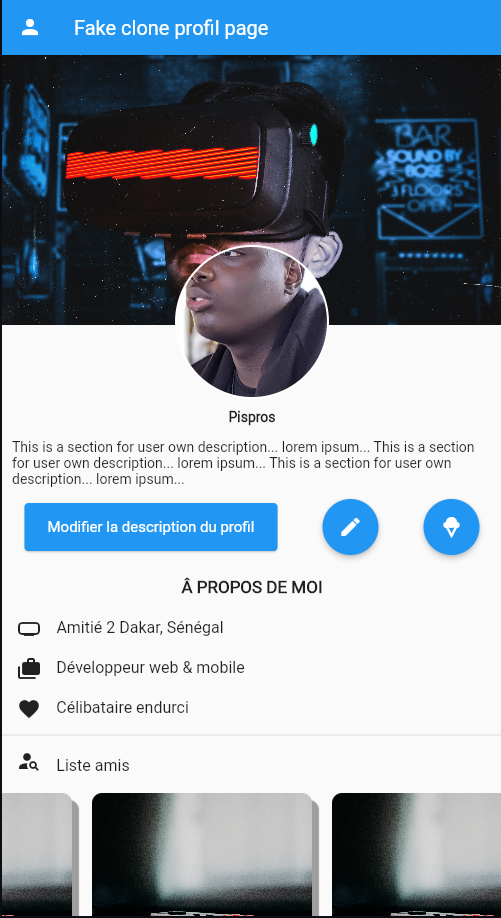
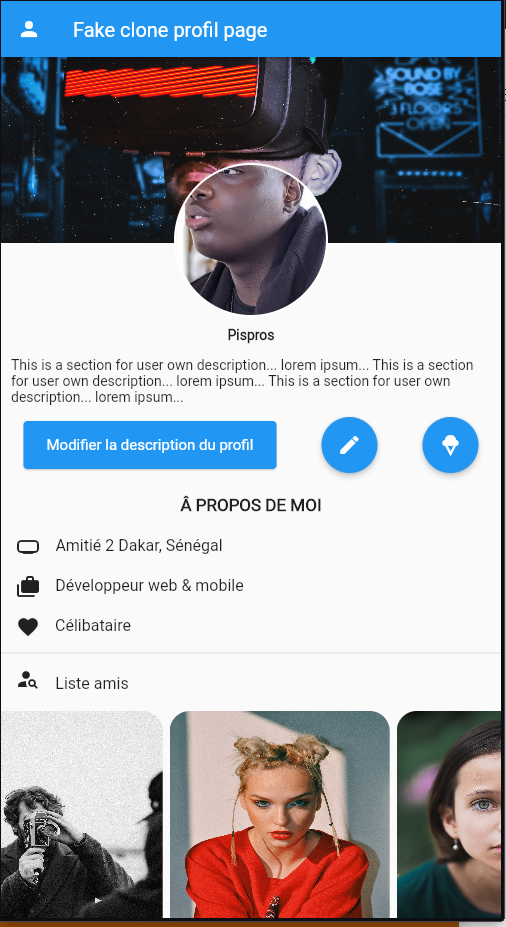
Little Optimisation

diff --git a/lib/home/home.dart b/lib/home/home.dart
@@ -259,7 +259,7 @@ class HomePage extends StatelessWidget {
                     ),
                    
                     Text(
-                      "Célibataire endurci",
+                      "Célibataire",
                       style: TextStyle(
                         fontWeight: FontWeight.w100,
                         fontSize: 16,
@@ -313,111 +313,60 @@ class HomePage extends StatelessWidget {
 
   Container friendList()
   {
+    Map<String, String> nameFilePath = {
+        "Dadja" : "https://images.pexels.com/photos/4511372/pexels-photo-4511372.jpeg",
+        "Prosper" : "https://images.pexels.com/photos/3692621/pexels-photo-3692621.jpeg?cs=srgb&dl=pexels-cottonbro-3692621.jpg&fm=jpg/",
+        "Fantomas" : "https://images.pexels.com/photos/6389819/pexels-photo-6389819.jpeg?cs=srgb&dl=pexels-djordje-cvetkovic-6389819.jpg&fm=jpg",
+        "Aribaariba" : "https://images.pexels.com/photos/4932473/pexels-photo-4932473.jpeg?cs=srgb&dl=pexels-skyler-ewing-4932473.jpg&fm=jpg",
+        "ninjamer" : "https://images.pexels.com/photos/6758064/pexels-photo-6758064.jpeg?cs=srgb&dl=pexels-jill-burrow-6758064.jpg&fm=jpg"
+    };
+
+    List<Widget> friendListContainer = [];
+
+    nameFilePath.forEach((key, value) {
+      friendListContainer.add(
+        Container(
+          margin: EdgeInsets.only(left: 7),
+         
+          child:Column(
+              children: [
+
+                Container(
+                  height: 270,
+                  width: 220,
+                  decoration: BoxDecoration(
+                      image: DecorationImage(
+                        image: NetworkImage(value),
+                        fit: BoxFit.fill
+                      ),
+                      borderRadius: BorderRadius.all(Radius.circular(20))
+                    )
+                ),
+
+                Container(
+                  margin: EdgeInsets.only(top: 7),
+                  child: Text(
+                      key,
+                      textAlign: TextAlign.center,
+                      style: TextStyle(
+                        fontSize: 17
+                      ),
+                  ),
+                )
+                
+
+              ],
+            )) ,
+        );      
+    });
+
     return Container(
           margin: EdgeInsets.only(bottom: 30, top: 5),
           child: SingleChildScrollView(
             scrollDirection: Axis.horizontal,
             child: Row(
-            children: [
-
-                Container(
-                  height: 270,
-                  width: 220,
-                  margin: EdgeInsets.only(left: 10, right: 10),
-                  decoration: BoxDecoration(
-                      boxShadow: [
-                            BoxShadow(
-                            color: Colors.grey,
-                            offset: Offset(7,7)
-                          ),
-                      ],
-                      image: DecorationImage(
-                        image: NetworkImage("https://images.pexels.com/photos/4511372/pexels-photo-4511372.jpeg"),
-                        fit: BoxFit.fill
-                      ),
-                      borderRadius: BorderRadius.all(Radius.circular(10))
-                   )
-                ),
-
-                 Container(
-                  height: 270,
-                  width: 220,
-                  margin: EdgeInsets.only(left: 10, right: 10),
-                  decoration: BoxDecoration(
-                      boxShadow: [
-                            BoxShadow(
-                            color: Colors.grey,
-                            offset: Offset(7,7)
-                          ),
-                      ],
-                      image: DecorationImage(
-                        image: NetworkImage("https://images.pexels.com/photos/4511372/pexels-photo-4511372.jpeg"),
-                        fit: BoxFit.fill
-                      ),
-                      borderRadius: BorderRadius.all(Radius.circular(10))
-                   )
-                ),
-
-                 Container(
-                  height: 270,
-                  width: 220,
-                  margin: EdgeInsets.only(left: 10, right: 10),
-                  decoration: BoxDecoration(
-                      boxShadow: [
-                            BoxShadow(
-                            color: Colors.grey,
-                            offset: Offset(7,7)
-                          ),
-                      ],
-                      image: DecorationImage(
-                        image: NetworkImage("https://images.pexels.com/photos/4511372/pexels-photo-4511372.jpeg"),
-                        fit: BoxFit.fill
-                      ),
-                      borderRadius: BorderRadius.all(Radius.circular(10))
-                   )
-                ),
-
-                 Container(
-                  height: 270,
-                  width: 220,
-                  margin: EdgeInsets.only(left: 10, right: 10),
-                  decoration: BoxDecoration(
-                      boxShadow: [
-                            BoxShadow(
-                            color: Colors.grey,
-                            offset: Offset(7,7)
-                          ),
-                      ],
-                      image: DecorationImage(
-                        image: NetworkImage("https://images.pexels.com/photos/4511372/pexels-photo-4511372.jpeg"),
-                        fit: BoxFit.fill
-                      ),
-                      borderRadius: BorderRadius.all(Radius.circular(10))
-                   )
-                ),
-
-                 Container(
-                  height: 270,
-                  width: 220,
-                  margin: EdgeInsets.only(left: 10, right: 10),
-                  decoration: BoxDecoration(
-                      boxShadow: [
-                            BoxShadow(
-                            color: Colors.grey,
-                            offset: Offset(7,7)
-                          ),
-                      ],
-                      image: DecorationImage(
-                        image: NetworkImage("https://images.pexels.com/photos/4511372/pexels-photo-4511372.jpeg"),
-                        fit: BoxFit.fill
-                      ),
-                      borderRadius: BorderRadius.all(Radius.circular(10))
-                   )
-                ),
-
-
-            ],
-          ),
+            children: friendListContainer
+           ),
           )
           
     );
